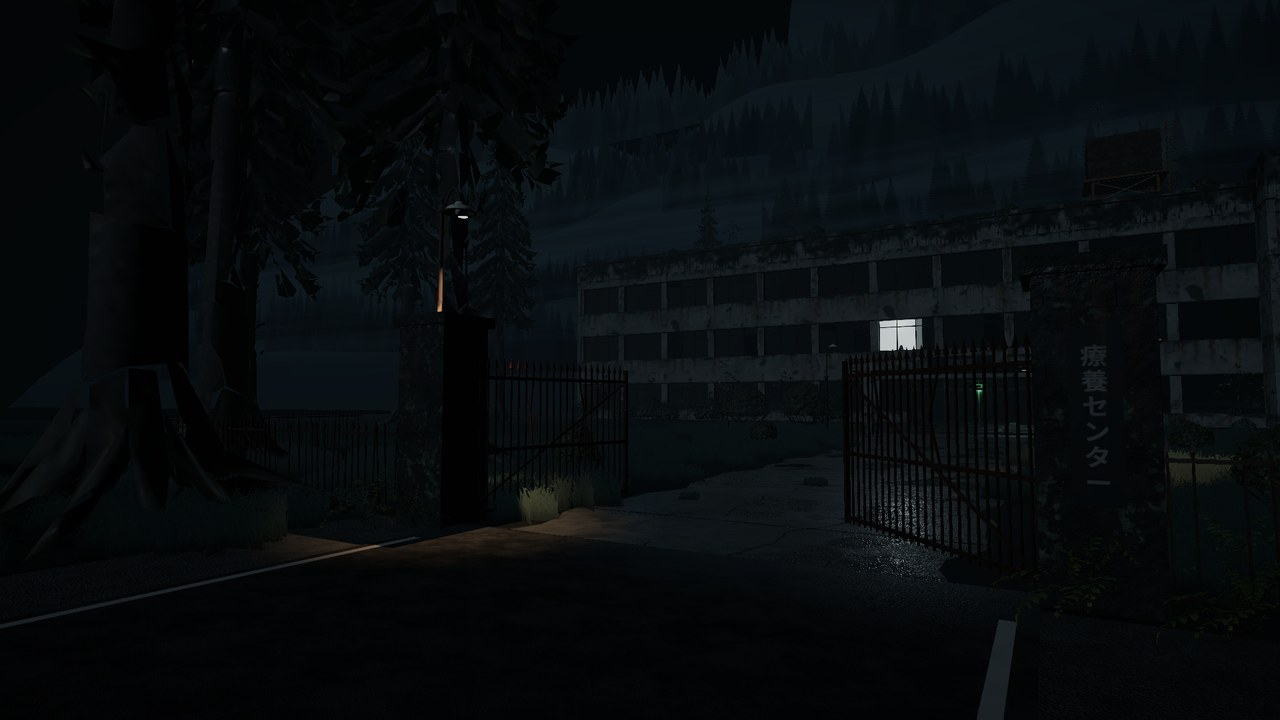
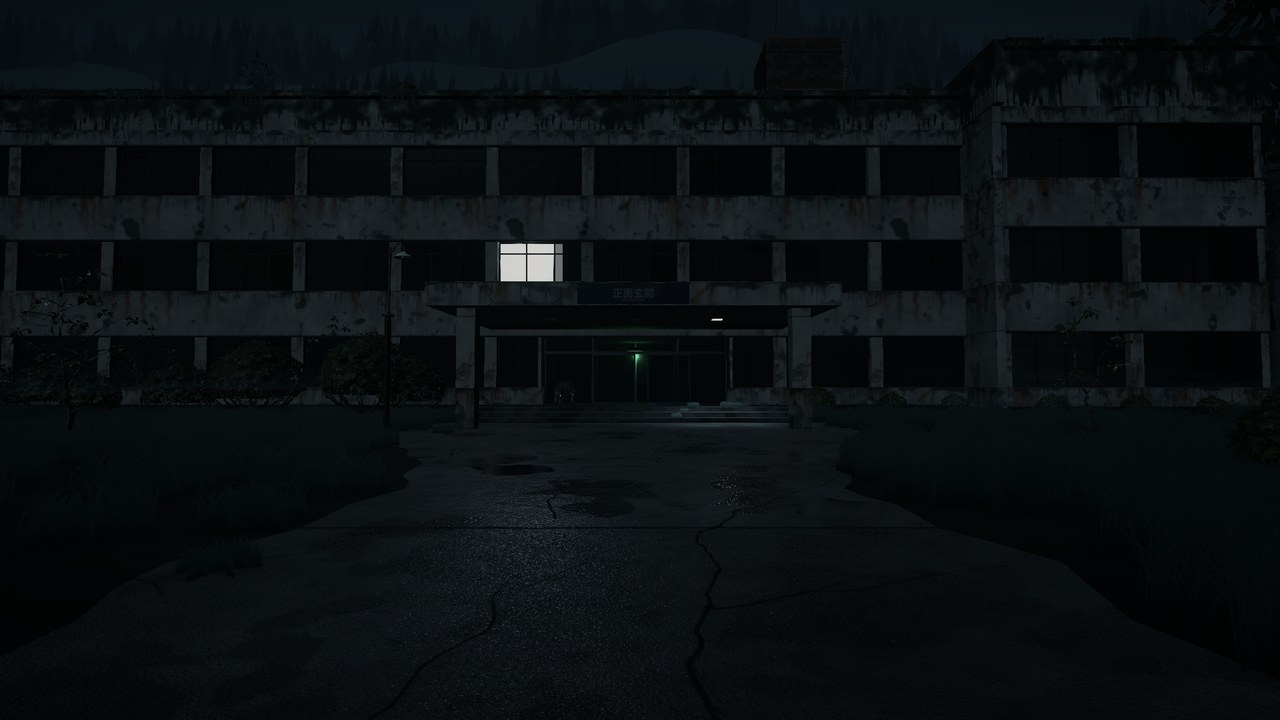
Replace R.E.C.A.L.L. captures with current ones
Use the sanatorium title screen and newer facility, corridor and
exploration captures; drop the outdated lobby and treatment room shots.

Claude-Session: https://claude.ai/code/session_01ByHUnJ37mCmwb4JdUJcVPA

diff --git a/index.html b/index.html
@@ -237,8 +237,8 @@
     <div class="recall-gallery">
       <figure><img src="assets/recall-drive.jpg" alt="R.E.C.A.L.L. 雨の中を施設へ向かう運転シーン" loading="lazy" width="1280" height="720"><figcaption>DRIVE</figcaption></figure>
       <figure><img src="assets/recall-facility.jpg" alt="R.E.C.A.L.L. 療養施設の外観" loading="lazy" width="1280" height="720"><figcaption>FACILITY</figcaption></figure>
-      <figure><img src="assets/recall-lobby.jpg" alt="R.E.C.A.L.L. 施設の待合" loading="lazy" width="1280" height="720"><figcaption>LOBBY</figcaption></figure>
-      <figure><img src="assets/recall-treatment.jpg" alt="R.E.C.A.L.L. 処置室" loading="lazy" width="1280" height="720"><figcaption>TREATMENT ROOM</figcaption></figure>
+      <figure><img src="assets/recall-corridor.jpg" alt="R.E.C.A.L.L. 懐中電灯で進む施設の廊下" loading="lazy" width="1280" height="720"><figcaption>CORRIDOR</figcaption></figure>
+      <figure><img src="assets/recall-explore.jpg" alt="R.E.C.A.L.L. 懐中電灯とスマートフォンを持って探索する場面" loading="lazy" width="1280" height="720"><figcaption>EXPLORE</figcaption></figure>
     </div>
 
     <p class="project-caption">※ 画像はすべて制作中のゲーム画面です。</p>
